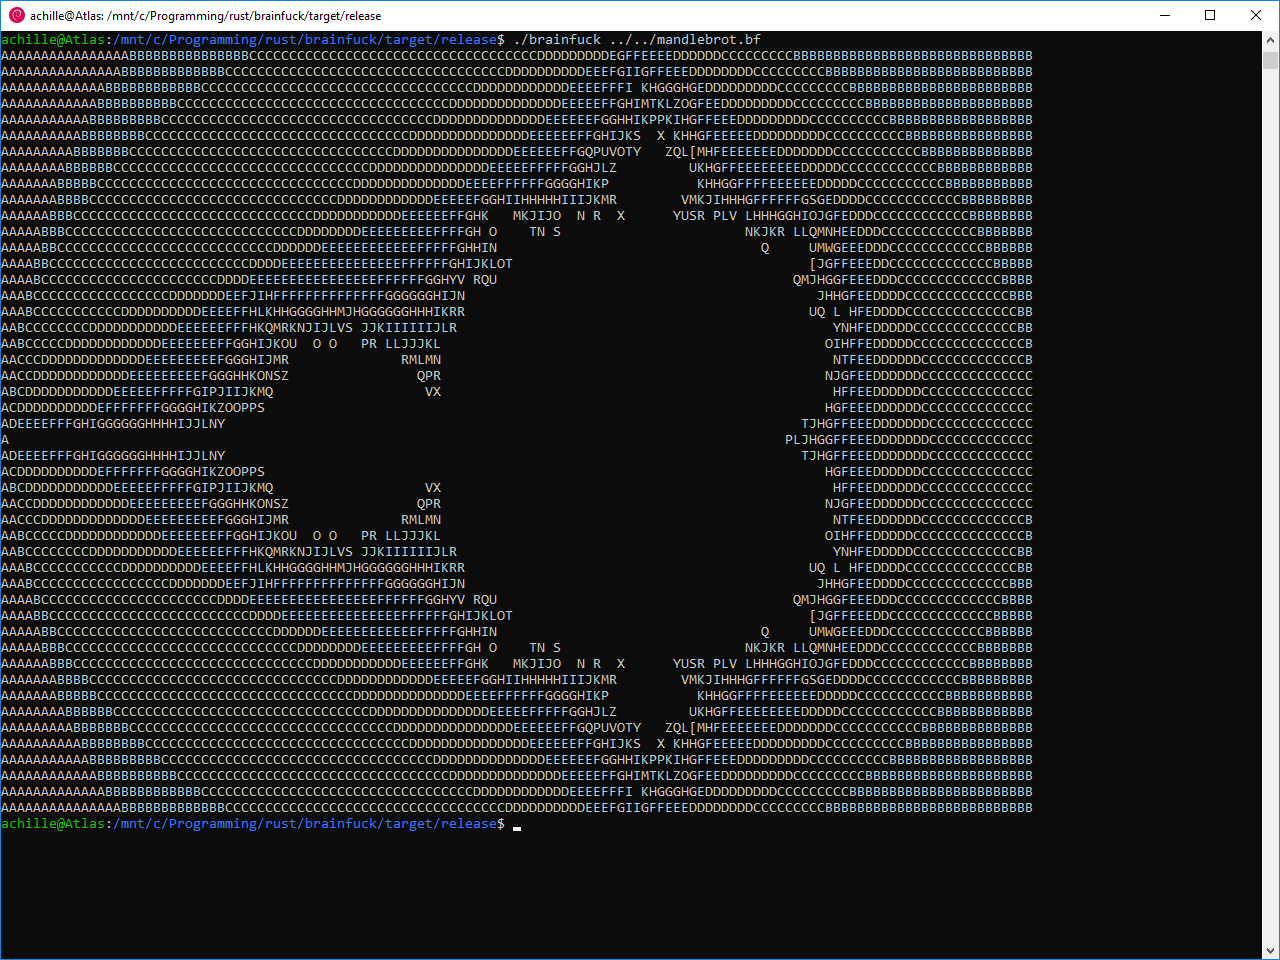
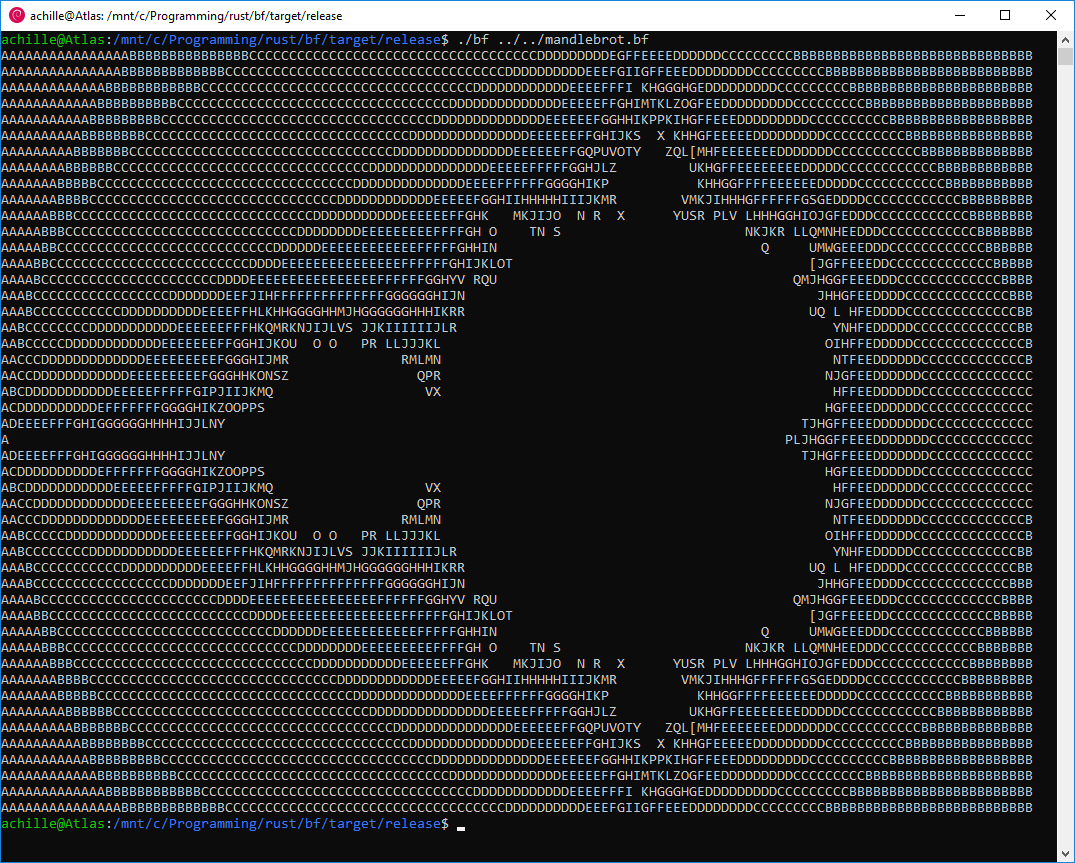
Rename

diff --git a/README.md b/README.md
@@ -1,10 +1,10 @@
-# brainfuck
+# bf
 
-A brainfuck interpreter + dynarec. Uses 8-bit wrapping memory cells, and a 30,000 byte memory array (no negative indices please!).
+An interpreter + recompiler for the [brainfuck esoteric programming language](https://esolangs.org/wiki/brainfuck). Uses 8-bit wrapping memory cells, and a 30,000 byte memory array (no negative indices please!).
 
 ## Usage
 
-To run a brainfuck program, just call `brainfuck <sourcefile>`. This will run the program by translating it into x86_64 assembly and running it as native code. To run a program using the interpreter instead, use `brainfuck -i <sourcefile>`.
+To run a program, just call `bf <sourcefile>`. This will run the program by translating it into x86_64 machine code and running it as native code. To run a program using the interpreter instead, use `bf -i <sourcefile>`.
 
 ## Example
 
@@ -14,8 +14,8 @@ To run a brainfuck program, just call `brainfuck <sourcefile>`. This will run th
 
 ### mandlebrot
 
-Interpreter: 6.129s
+Interpreter: 6.211s
 
-Dynarec: 1.077s
+Recompiler: 1.054s
 
 ![](images/mandlebrot_benchmark.png)
